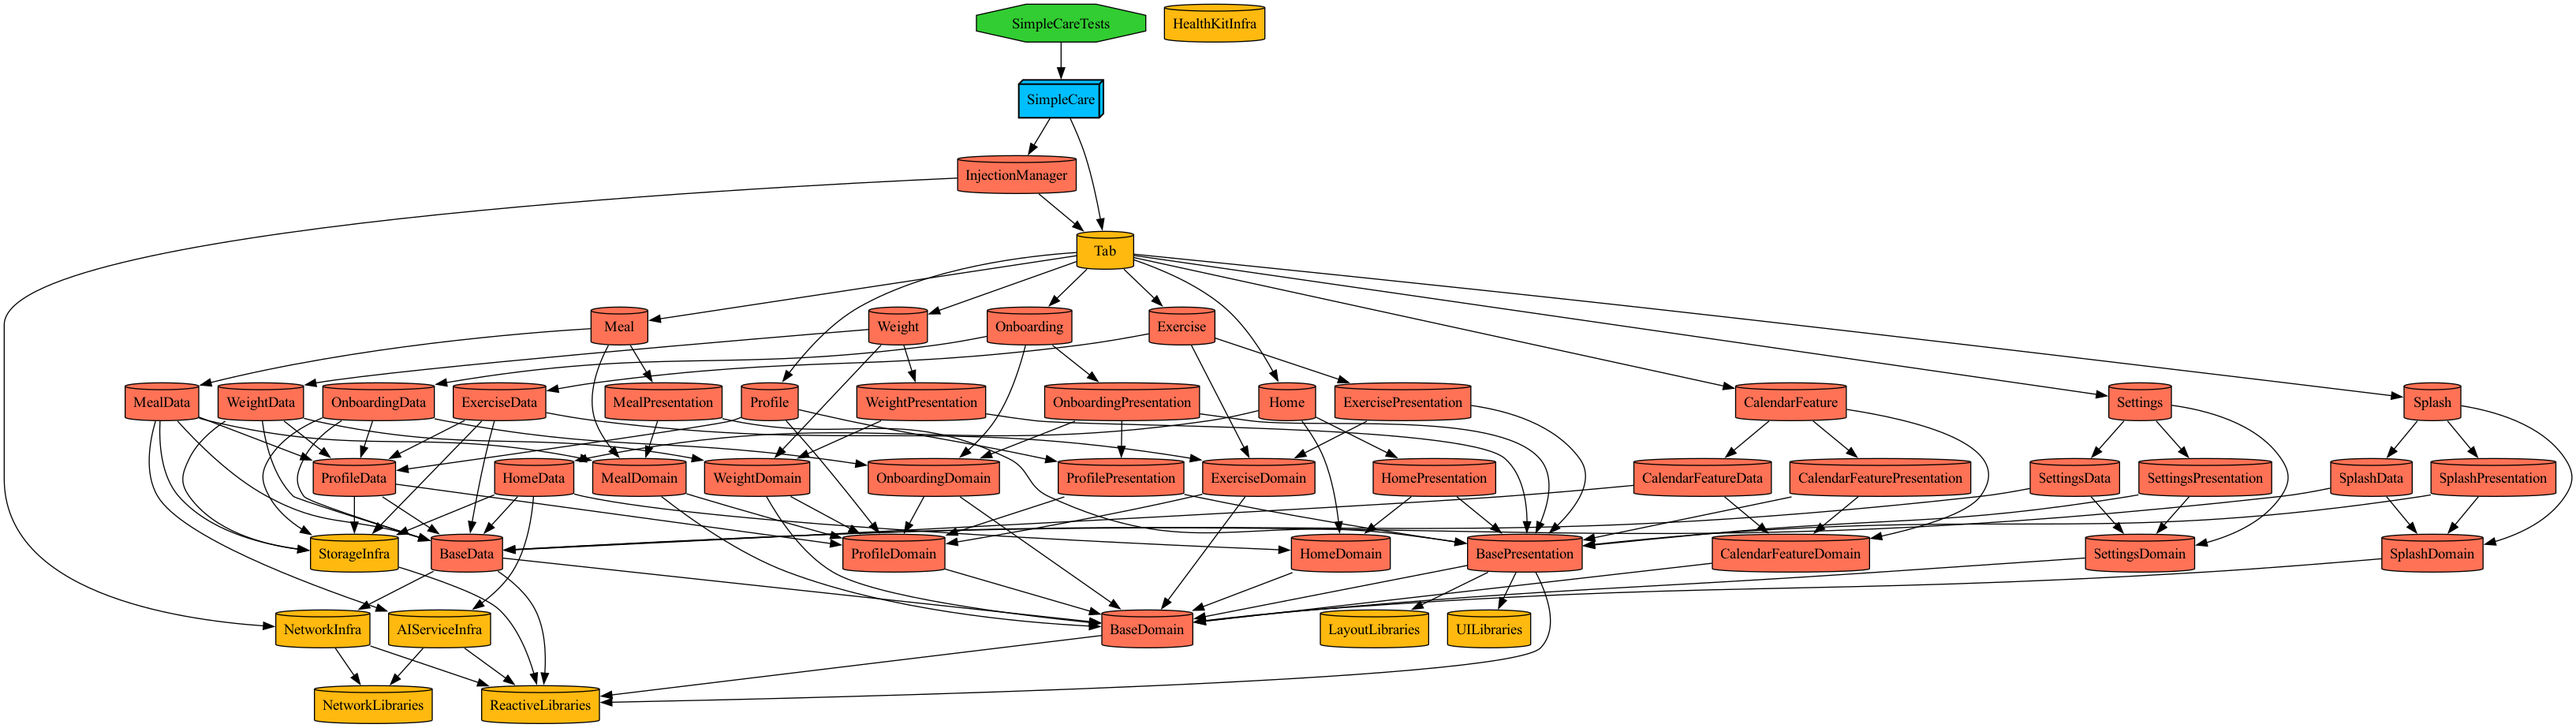
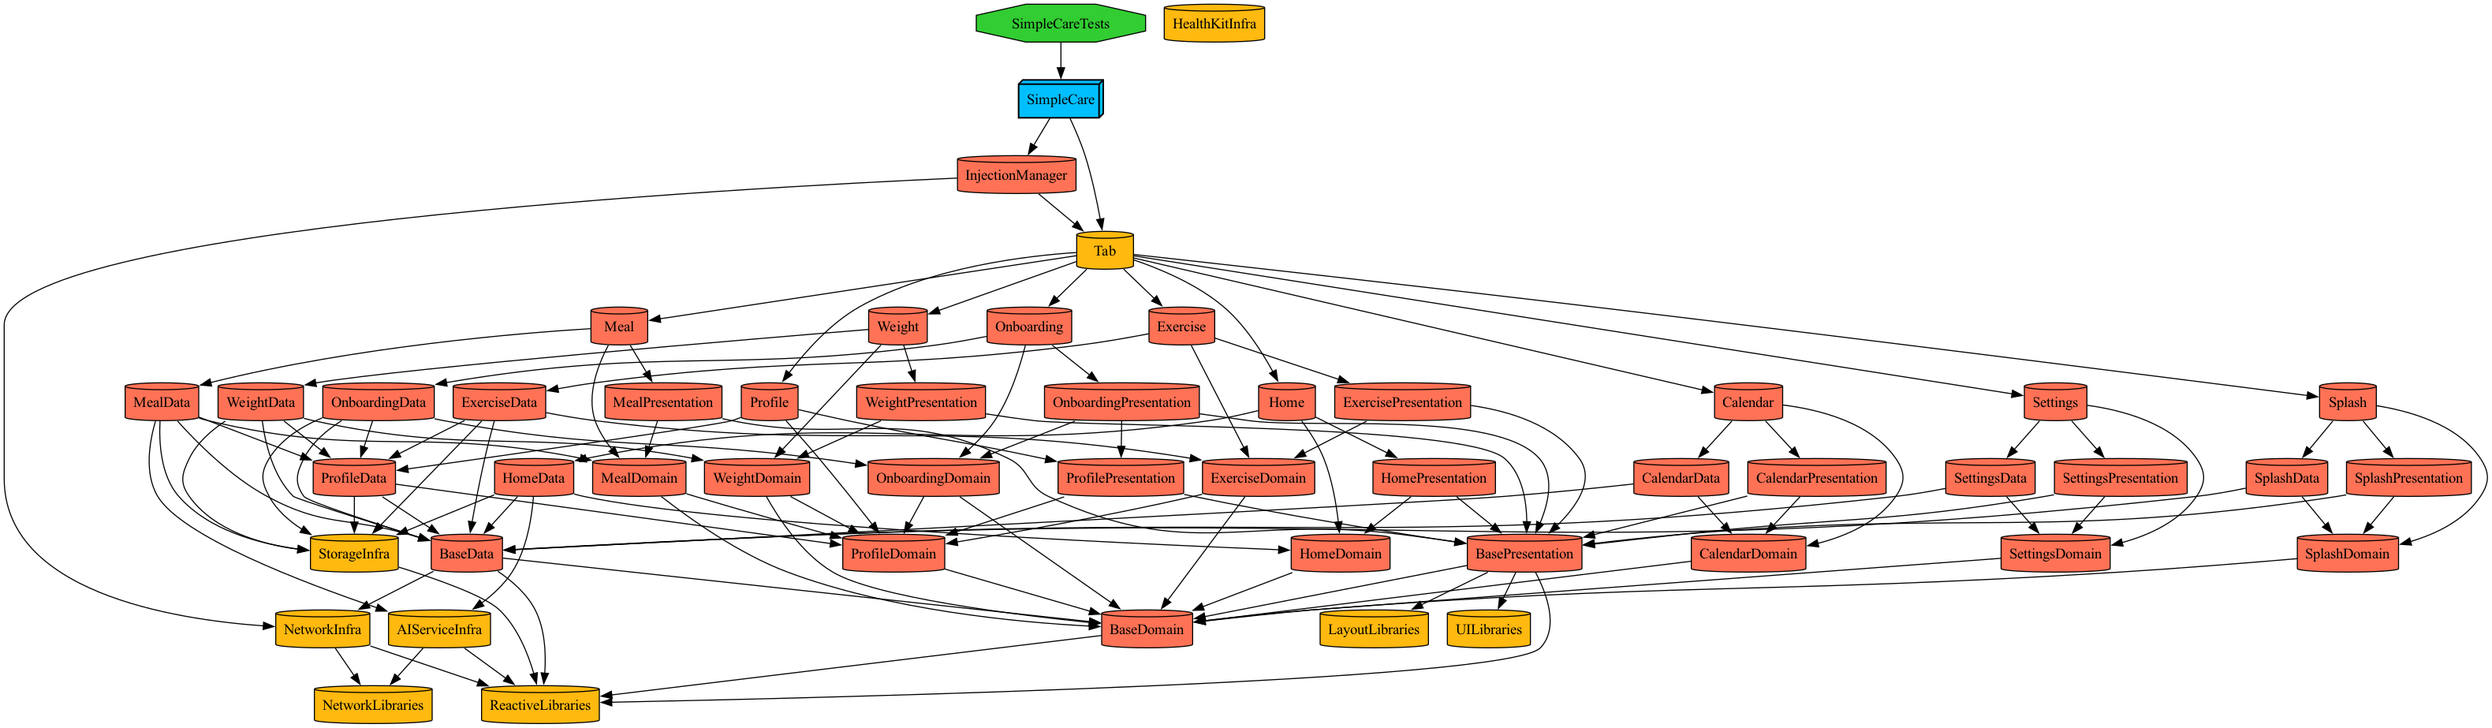
🏗 Chore: 미사용 Dashboard 모듈 제거 및 Makefile 정리
- Dashboard 모듈 디렉토리 및 모든 참조 제거 (Dependency, README)
- Makefile에 누락된 Base, Tab 그래프 타겟 추가
- settings-graph echo 오타 수정

diff --git a/Tuist/ProjectDescriptionHelpers/Dependencies/Dependency+Project.swift b/Tuist/ProjectDescriptionHelpers/Dependencies/Dependency+Project.swift
@@ -29,7 +29,6 @@ public enum ProjectDomain: String {
     case Settings
 
     // Healthcare Features
-    case Dashboard
     case Meal
     case Weight
     case Exercise
@@ -115,11 +114,6 @@ public extension TargetDependency.Project.Feature {
     )
 
     // Healthcare Features
-    static let Dashboard: TargetDependency = .project(
-        domain: .Dashboard,
-        name: "Dashboard"
-    )
-
     static let Meal: TargetDependency = .project(
         domain: .Meal,
         name: "Meal"
@@ -189,11 +183,6 @@ public extension TargetDependency.Project.Feature.Data {
     )
 
     // Healthcare Features Data
-    static let DashboardData: TargetDependency = .project(
-        domain: .Dashboard,
-        name: "DashboardData"
-    )
-
     static let MealData: TargetDependency = .project(
         domain: .Meal,
         name: "MealData"
@@ -263,11 +252,6 @@ public extension TargetDependency.Project.Feature.Domain {
     )
 
     // Healthcare Features Domain
-    static let DashboardDomain: TargetDependency = .project(
-        domain: .Dashboard,
-        name: "DashboardDomain"
-    )
-
     static let MealDomain: TargetDependency = .project(
         domain: .Meal,
         name: "MealDomain"
@@ -337,11 +321,6 @@ public extension TargetDependency.Project.Feature.Presentation {
     )
 
     // Healthcare Features Presentation
-    static let DashboardPresentation: TargetDependency = .project(
-        domain: .Dashboard,
-        name: "DashboardPresentation"
-    )
-
     static let MealPresentation: TargetDependency = .project(
         domain: .Meal,
         name: "MealPresentation"
